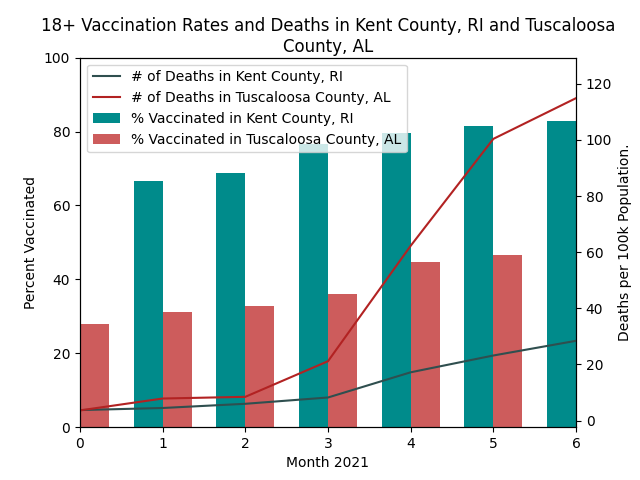
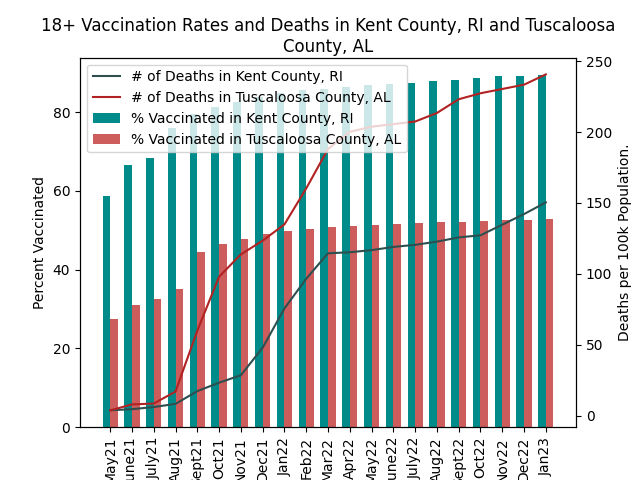
Dates and all sorted

diff --git a/src/comparison.py b/src/comparison.py
@@ -3,6 +3,8 @@ import pandas as pd
 import numpy as np
 from collections import defaultdict
 import sys
+import create_dates
+
 
 def fips_to_name(FIPS):
     map = defaultdict(lambda: FIPS)
@@ -15,16 +17,7 @@ def fips_to_name(FIPS):
 
                 
 def comparison(FIPS_1='44003', FIPS_2='01125'):
-    months = {
-        'May':'05-31-2021',
-        'June':'06-30-2021',
-        'July':'07-31-2021',
-        'August':'08-31-2021',
-        'September':'09-30-2021',
-        'October':'10-31-2021',
-        'November':'11-30-2021',
-        'December':'12-31-2021'
-        }
+    months = create_dates.comp_dict
     file_list = []
 
     for month, csv_date in months.items():
@@ -38,8 +31,8 @@ def comparison(FIPS_1='44003', FIPS_2='01125'):
 
     FIPS_1_name = fips_to_name(FIPS_1)
     FIPS_2_name = fips_to_name(FIPS_2)
-
     print("Comparing " + FIPS_1_name + " and " + FIPS_2_name)
+
     FIPS_1_vax = cleaned_df.loc[cleaned_df['FIPS'] == FIPS_1]
     FIPS_1_vax = FIPS_1_vax["Series_Complete_18PlusPop_Pct"]
     FIPS_1_death = cleaned_df.loc[cleaned_df['FIPS'] == FIPS_1]
@@ -51,24 +44,29 @@ def comparison(FIPS_1='44003', FIPS_2='01125'):
     FIPS_2_death = FIPS_2_death['Deaths_Per_1e5']
 
     fig,ax1 = plt.subplots() 
-    x = [0, 1, 2, 3, 4, 5, 6]
-    labels = ['May', 'June', 'July', 'August', 'September', 'October', 'November', 'December']
+    # x = [0, 1, 2, 3, 4, 5, 6]
+    # x = list(range(len(months)))
+    # labels = ['May', 'June', 'July', 'August', 'September', 'October', 'November', 'December']
+    labels = months.keys()
     x = np.arange(len(labels))
 
     width = 0.35 
-    ax1.set_xticks(x, labels)
-    ax1.set_ylim(0, 100)
-    ax1.set_xlim(0,6)
-    ax1.set_title('18+ Vaccination Rates and Deaths in '+FIPS_1_name+" and "+FIPS_2_name, wrap=True)
-    ax1.set_xlabel('Month 2021')
+    # ax1.set_xticks(x, labels) #Deprecated
+    ax1.set_xticks(x)
+    ax1.set_xticklabels(labels, rotation=90)
+    # ax1.set_ylim(0, 100)
+    # ax1.set_xlim(0,6)
+    ax1.set_title('18+ Vaccination Rates and Deaths in ' + FIPS_1_name + " and "+ FIPS_2_name, wrap=True)
+    ax1.set_xlabel('Dates')
     ax1.set_ylabel('Percent Vaccinated') 
 
-    ax1.bar(x - width/2, FIPS_1_vax, width, color='darkcyan', label='% Vaccinated in '+FIPS_1_name)
-    ax1.bar(x + width/2, FIPS_2_vax, width, color='indianred', label='% Vaccinated in '+FIPS_2_name)
+    ax1.bar(x - width/2, FIPS_1_vax, width, color='darkcyan', label='% Vaccinated in ' + FIPS_1_name)
+    ax1.bar(x + width/2, FIPS_2_vax, width, color='indianred', label='% Vaccinated in ' + FIPS_2_name)
 
     ax2 = ax1.twinx()
-    ax2.plot(x, FIPS_1_death, color='darkslategray', label = '# of Deaths in '+FIPS_1_name)
-    ax2.plot(x, FIPS_2_death, color='firebrick', label = '# of Deaths in '+FIPS_2_name)
+    ax2.plot(x, FIPS_1_death, color='darkslategray', label='# of Deaths in ' + FIPS_1_name)
+    ax2.plot(x, FIPS_2_death, color='firebrick', label='# of Deaths in ' + FIPS_2_name)
+    
     ax2.set_ylabel('Deaths per 100k Population.')
     
     handles_1, _ = ax1.get_legend_handles_labels()

diff --git a/src/create_dates.py b/src/create_dates.py
@@ -1,20 +1,55 @@
-from read_dates import read_months, read_years
+from read_dates import read_years
+import calendar
+import datetime
+
+today = datetime.date.today()
+today_yr = today.year
+today_mnth = today.month
 
 def dates():
-    months = read_months()
-    years = read_years()
-    yr_months = []
+        years = read_years()
+        weekday = 2 #Wednesday
+        yr_mnths = []
 
-    for year in years:
-        if year == "2021":
-            for month in months[4:]:
-                new_date = month + "-" + year
-                yr_months.append(new_date)
-        else:
-            for month in months:
-                new_date = month + "-" + year
-                yr_months.append(new_date)
+        for year in years:
+                result = [str(0) + str(month) + "-" 
+                + str(max(week[weekday] for week in calendar.monthcalendar(year, month))) + "-" 
+                + str(year) for month in range(1, 10)]
 
-    return yr_months
+                result_2 = [str(month) + "-" 
+                + str(max(week[weekday] for week in calendar.monthcalendar(year, month))) + "-" 
+                + str(year) for month in range(10, 13)]
+
+                results = result + result_2
+
+                if year == 2021:
+                        results = results[4:]
+                        yr_mnths += results
+                elif year == today_yr:
+                        # results = results[:today_mnth]
+                        results = results[:1] #January
+                        yr_mnths += results
+                else:
+                        yr_mnths += results
+
+        return yr_mnths
+
 
 new_dates = dates()
+print("Date start is: ", new_dates[0], "and date end is: ", new_dates[-1])
+
+
+def comparison_dictkeys():
+        months = ["Jan", "Feb", "Mar", "Apr", "May",
+        "June", "July", "Aug", "Sept", "Oct", "Nov", "Dec"]
+
+        my_dict = {}
+        for date in new_dates:
+                date_month = int(date[:2])
+                date_yr = str(date[-2:])
+                key = months[date_month-1]
+                key = key + date_yr
+                my_dict[key] = date
+        return my_dict
+
+comp_dict = comparison_dictkeys()

diff --git a/src/deaths.py b/src/deaths.py
@@ -21,7 +21,9 @@ def readit(filename):
 
 
 def get_death_number_JHU(start, end):
-    """This is a function that returns a dataframe that contain Fips and the death number from start to end (two dates passed as strings), and create a csv file in data 
+    """This is a function that returns a dataframe that contain Fips 
+    and the death number from start to end (two dates passed as strings), 
+    and create a csv file in data 
     Parameters: 
         start: str , write it in form "05-01-2021.csv",
         end: str,
@@ -108,12 +110,13 @@ def get_confirm_number_JHU(start, end):
 def create_death_number_JHU():
     """This function writes death number into 7 (month) csv files, each file document death number from 05-01 to the end of this month
     Please create a JHU file in ../data First, Or this function will give error. 
-    If you don't want to wast time to input augument to create csv file for every month please run following function
+    If you don't want to waste time to input augument to create csv file for every month please run following function
     """
     start = '05-01-2021'
     ends = create_dates.new_dates
     
     for end in ends:
+        print(end)
         get_death_number_JHU(start, end)
 
 

diff --git a/src/vaccines.py b/src/vaccines.py
@@ -2,15 +2,11 @@ import pandas as pd
 import datetime as dt
 import create_dates
 
-def vaccines(desired_date):
+def vaccines(desired_date, df):
     """Sample one date from the source dataset and write it to an intermediate file
     Parameters:
         desired_date: str, date to be sampled for vaccine completedness
     """
-    input_filename = "./data/COVID-19_Vaccinations_in_the_United_States_County.csv.gz"
-    df = pd.read_csv(input_filename, compression="gzip", converters={'FIPS' : str})
-    print("START:", df.shape)
-
     # Filter by date
     desired_date = desired_date.replace("-", "/")
     df = df[df["Date"] == desired_date]
@@ -37,8 +33,12 @@ def create_vaccines():
     """
     This function generates vaccination data for seven different dates.
     """
+    input_filename = "./data/COVID-19_Vaccinations_in_the_United_States_County.csv.gz"
+    data = pd.read_csv(input_filename, compression="gzip", converters={'FIPS' : str})
+    print("START:", data.shape)
+
     for date in create_dates.new_dates:
-        vaccines(date)
+        vaccines(date, data)
 
 
 if __name__ == "__main__":

diff --git a/src/animation.py b/src/animation.py
@@ -4,7 +4,7 @@
 #This is option 2 for how we could make a gif. 
 #The function actually reads a folder for the images so the user would not have to change anything, but its important that the files are named correctly when they are saved/created
 
-import imageio.v3 as iio
+import imageio.v2 as iio
 import os
 
 def create_gif(filename_save):
@@ -19,11 +19,11 @@ def create_gif(filename_save):
     for filename in sorted(os.listdir('img')):
         if filename[-4:] == '.png' and not filename == 'comparison.png':
             f = os.path.join('img',filename)
-            im = imageio.imread(f)
+            im = iio.imread(f)
             images.append(im)
 
     #making the gif from the pngs
-    imageio.mimsave(filename_save,images,duration = 1)
+    iio.mimsave(filename_save, images, duration=1)
 
 if __name__ == "__main__":
     create_gif('img/animation.gif')

diff --git a/src/merge.py b/src/merge.py
@@ -14,7 +14,7 @@ def merge(date):
     df = pd.read_csv(base_CDC + "vaccinations-" + date + ".csv",
                      converters={'FIPS': str})
     deaths = pd.read_csv(
-        base_JHU + "deaths-05-01-2021-to-"+date+".csv", converters={'FIPS': str})
+        base_JHU + "deaths-05-01-2021-to-" + date + ".csv", converters={'FIPS': str})
 
     # Add the deaths data to the dataframe
     return df.merge(deaths, on='FIPS')

diff --git a/src/read_dates.py b/src/read_dates.py
@@ -1,14 +1,9 @@
 import pandas as pd
 
-def read_months():
-    dates = pd.read_csv("new_dates.csv")
-    dates = dates.date.to_list()
-    return dates
-
 def read_years():
     years = pd.read_csv("years.csv")
     years = years.year.to_list()
-    years = [format(x,'d') for x in years] #convert entries to strings
+    # years = [format(x,'d') for x in years] #convert entries to strings
     return years
 
 
